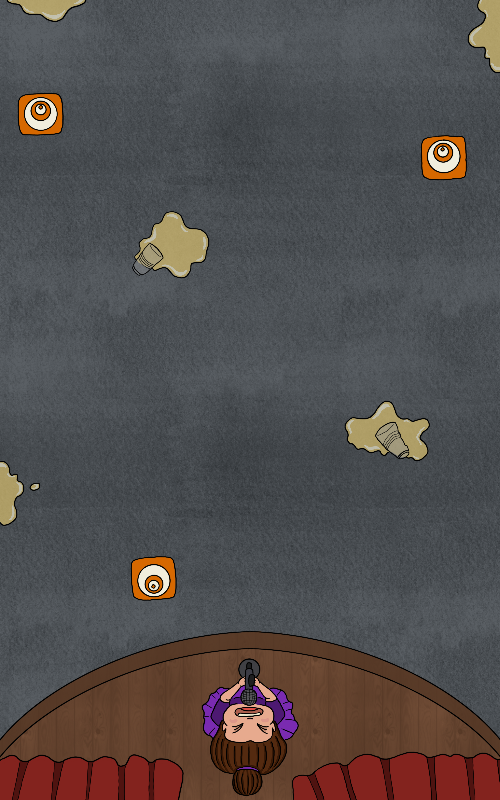
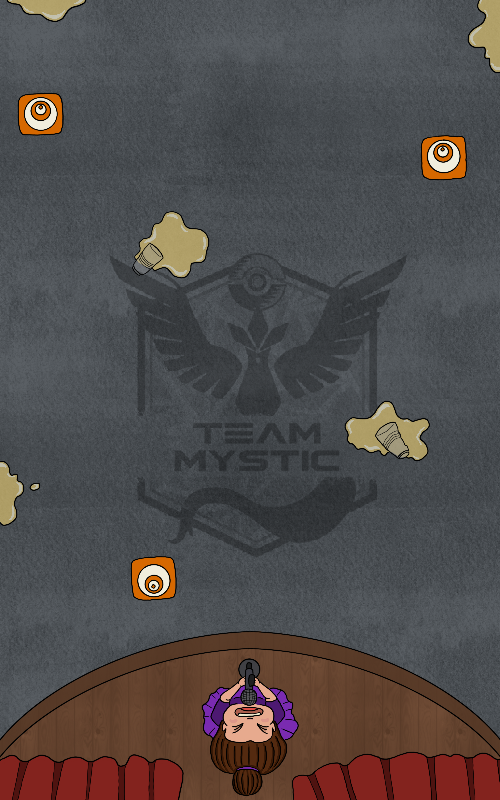
sound and image improvements done

Changed region(s): [[0.21, 0.3125, 0.78, 0.5], [0.66, 0.3438, 0.78, 0.4062]]

diff --git a/style.css b/style.css
@@ -38,6 +38,27 @@ body {
     justify-content: center;
 }
 
+#mystic {
+    background-image: url(./images/mystic.png);
+    /* position: relative; */
+    opacity: 0.1;
+    background-size: cover;
+    position: absolute;
+    top: 0px;
+    right: 0px;
+    bottom: 0px;
+    left: 0px;
+    /* opacity: 0.75; */
+}
+
+#splash-screen {
+    /* background-image: url("<a href='https://www.freepik.com/vectors/background'>Background vector created by macrovector - www.freepik.com</a>"); */
+    /* background-image: url(./images/stageImg.jpg);
+    background-repeat: no-repeat;
+    background-size: cover; */
+
+}
+
 .btn {
     font-family: 'Architects Daughter', cursive;
     font-size: 2.5em;

diff --git a/index.html b/index.html
@@ -17,8 +17,8 @@
 </head>
 
 <body>
-    <audio id="splash-scr-song" src="./sounds/ss - splash screen.mp3"></audio>
-    <audio id="main-song" loop src="./sounds/ss - main song.mp3"></audio>
+    <audio loop id="splash-scr-song" src="./sounds/ss - splash screen.mp3"></audio>
+    <audio loop id="main-song" src="./sounds/ss - main song.mp3"></audio>
     <audio id="end-react" src="./sounds/awww.mp3"></audio>
     <audio id="enemy-die" src="./sounds//die1.mp3"></audio>
     <audio id="bad-ending" src="./sounds/ss - bad ending.mp3"></audio>

diff --git a/index.js b/index.js
@@ -48,6 +48,7 @@ enemyDieSnd.volume = 0.5;
 
 function buildSplashScreen() {
     splashScreenDOM.style.display = "flex";
+    splashScrSong.currentTime = 0;
     splashScrSong.play();
     mainSong.currentTime = 0;
 }

diff --git a/game.js b/game.js
@@ -137,4 +137,5 @@ class Game {
         this.fadeOutArray = [];
         this.score = 0;
     }
+
 }
